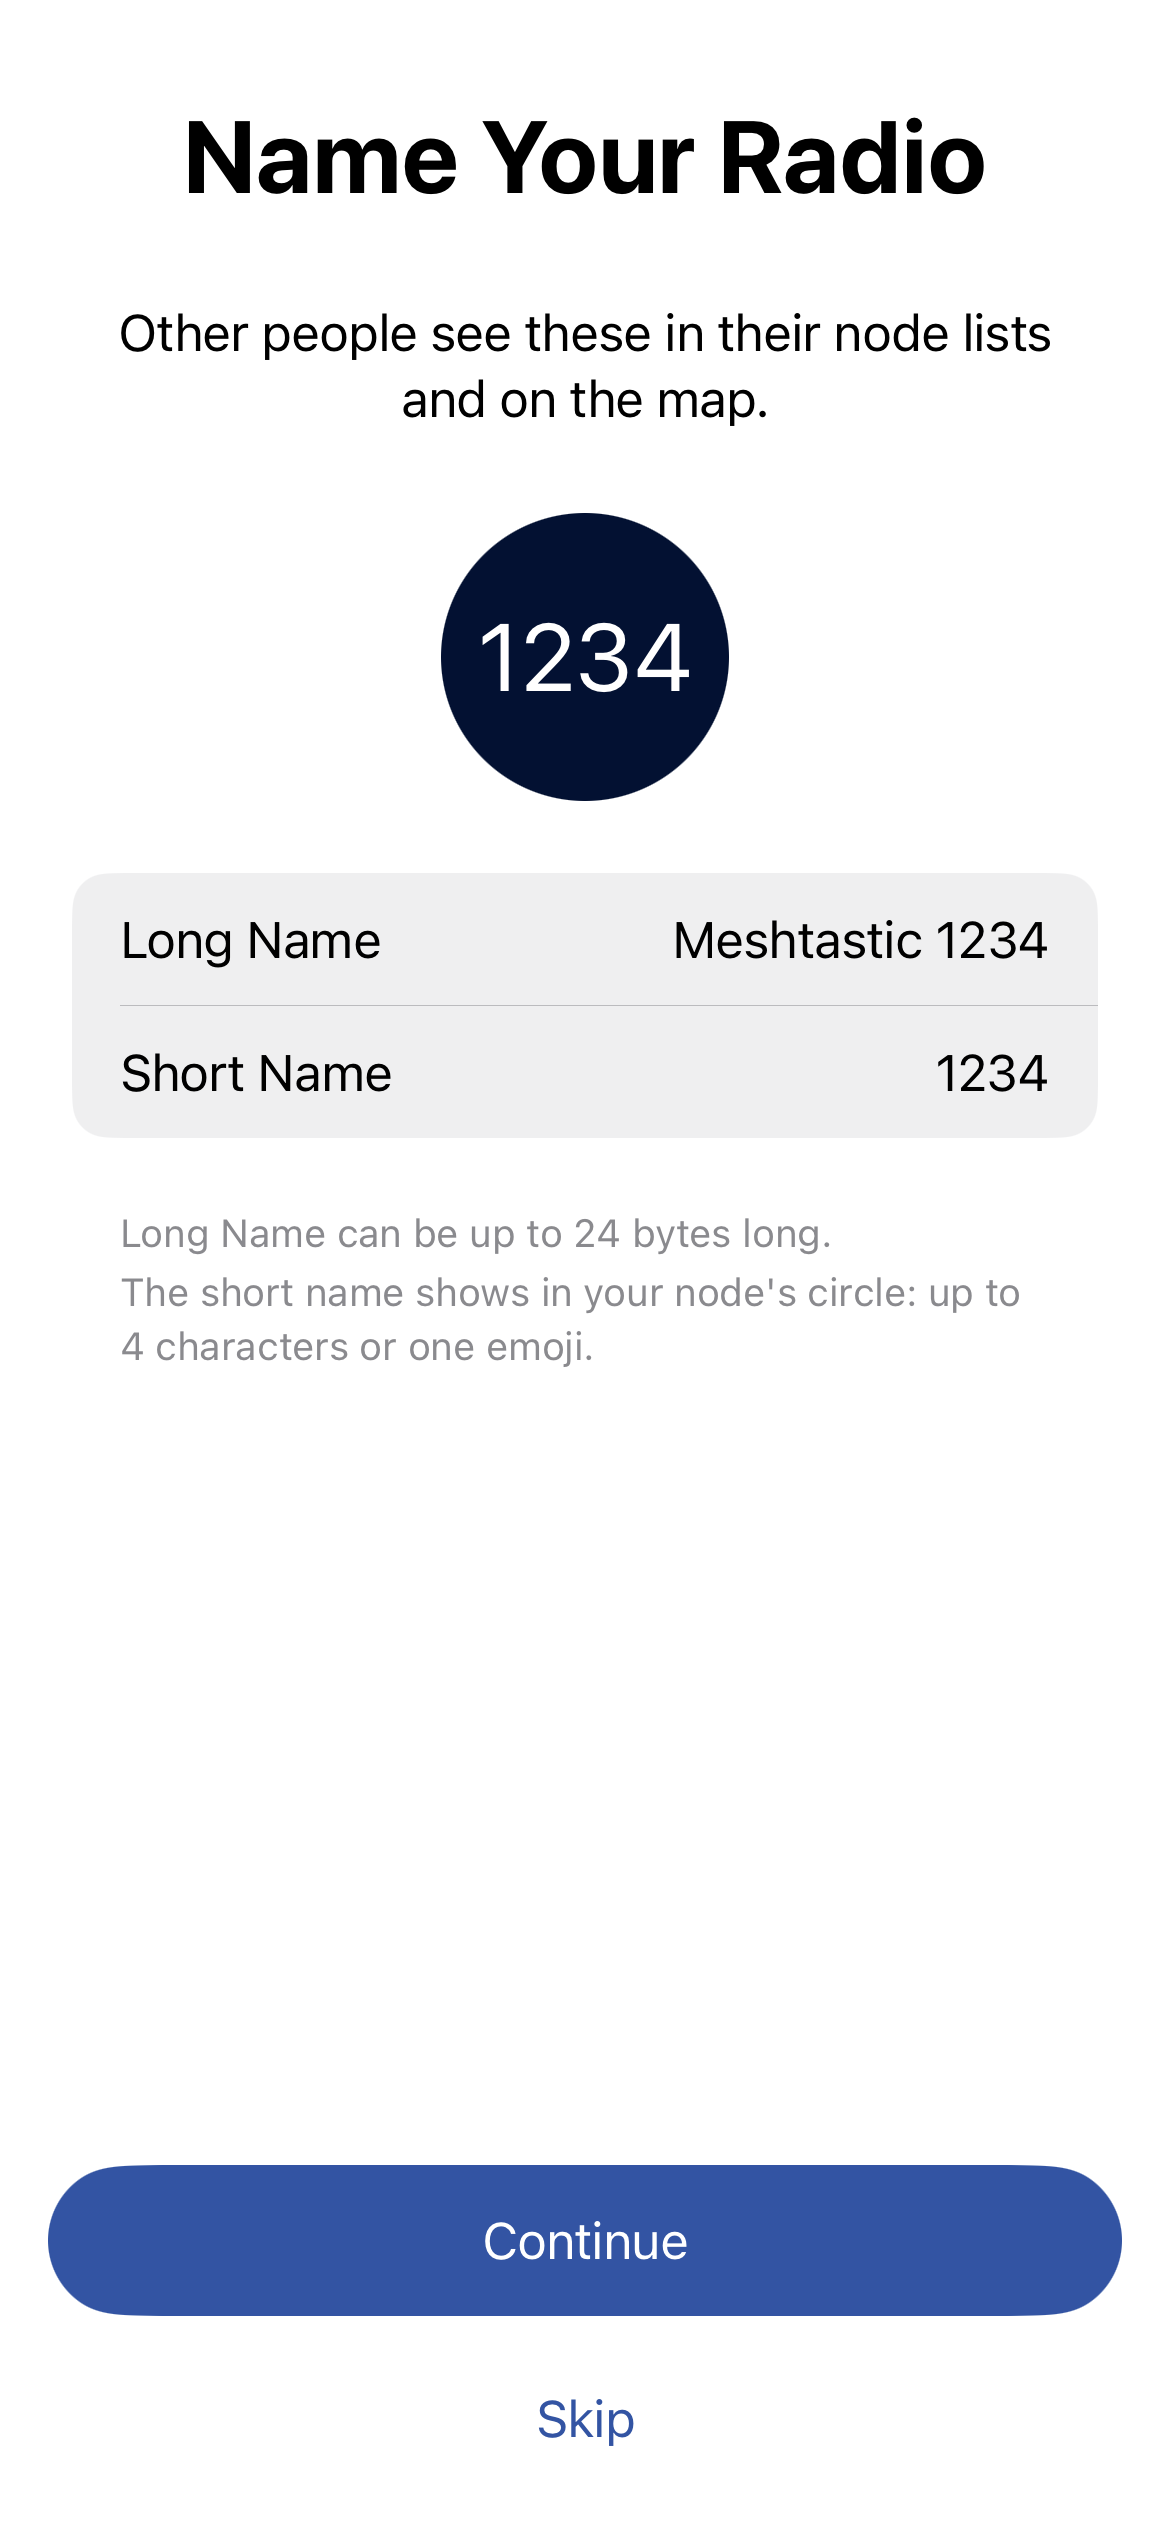
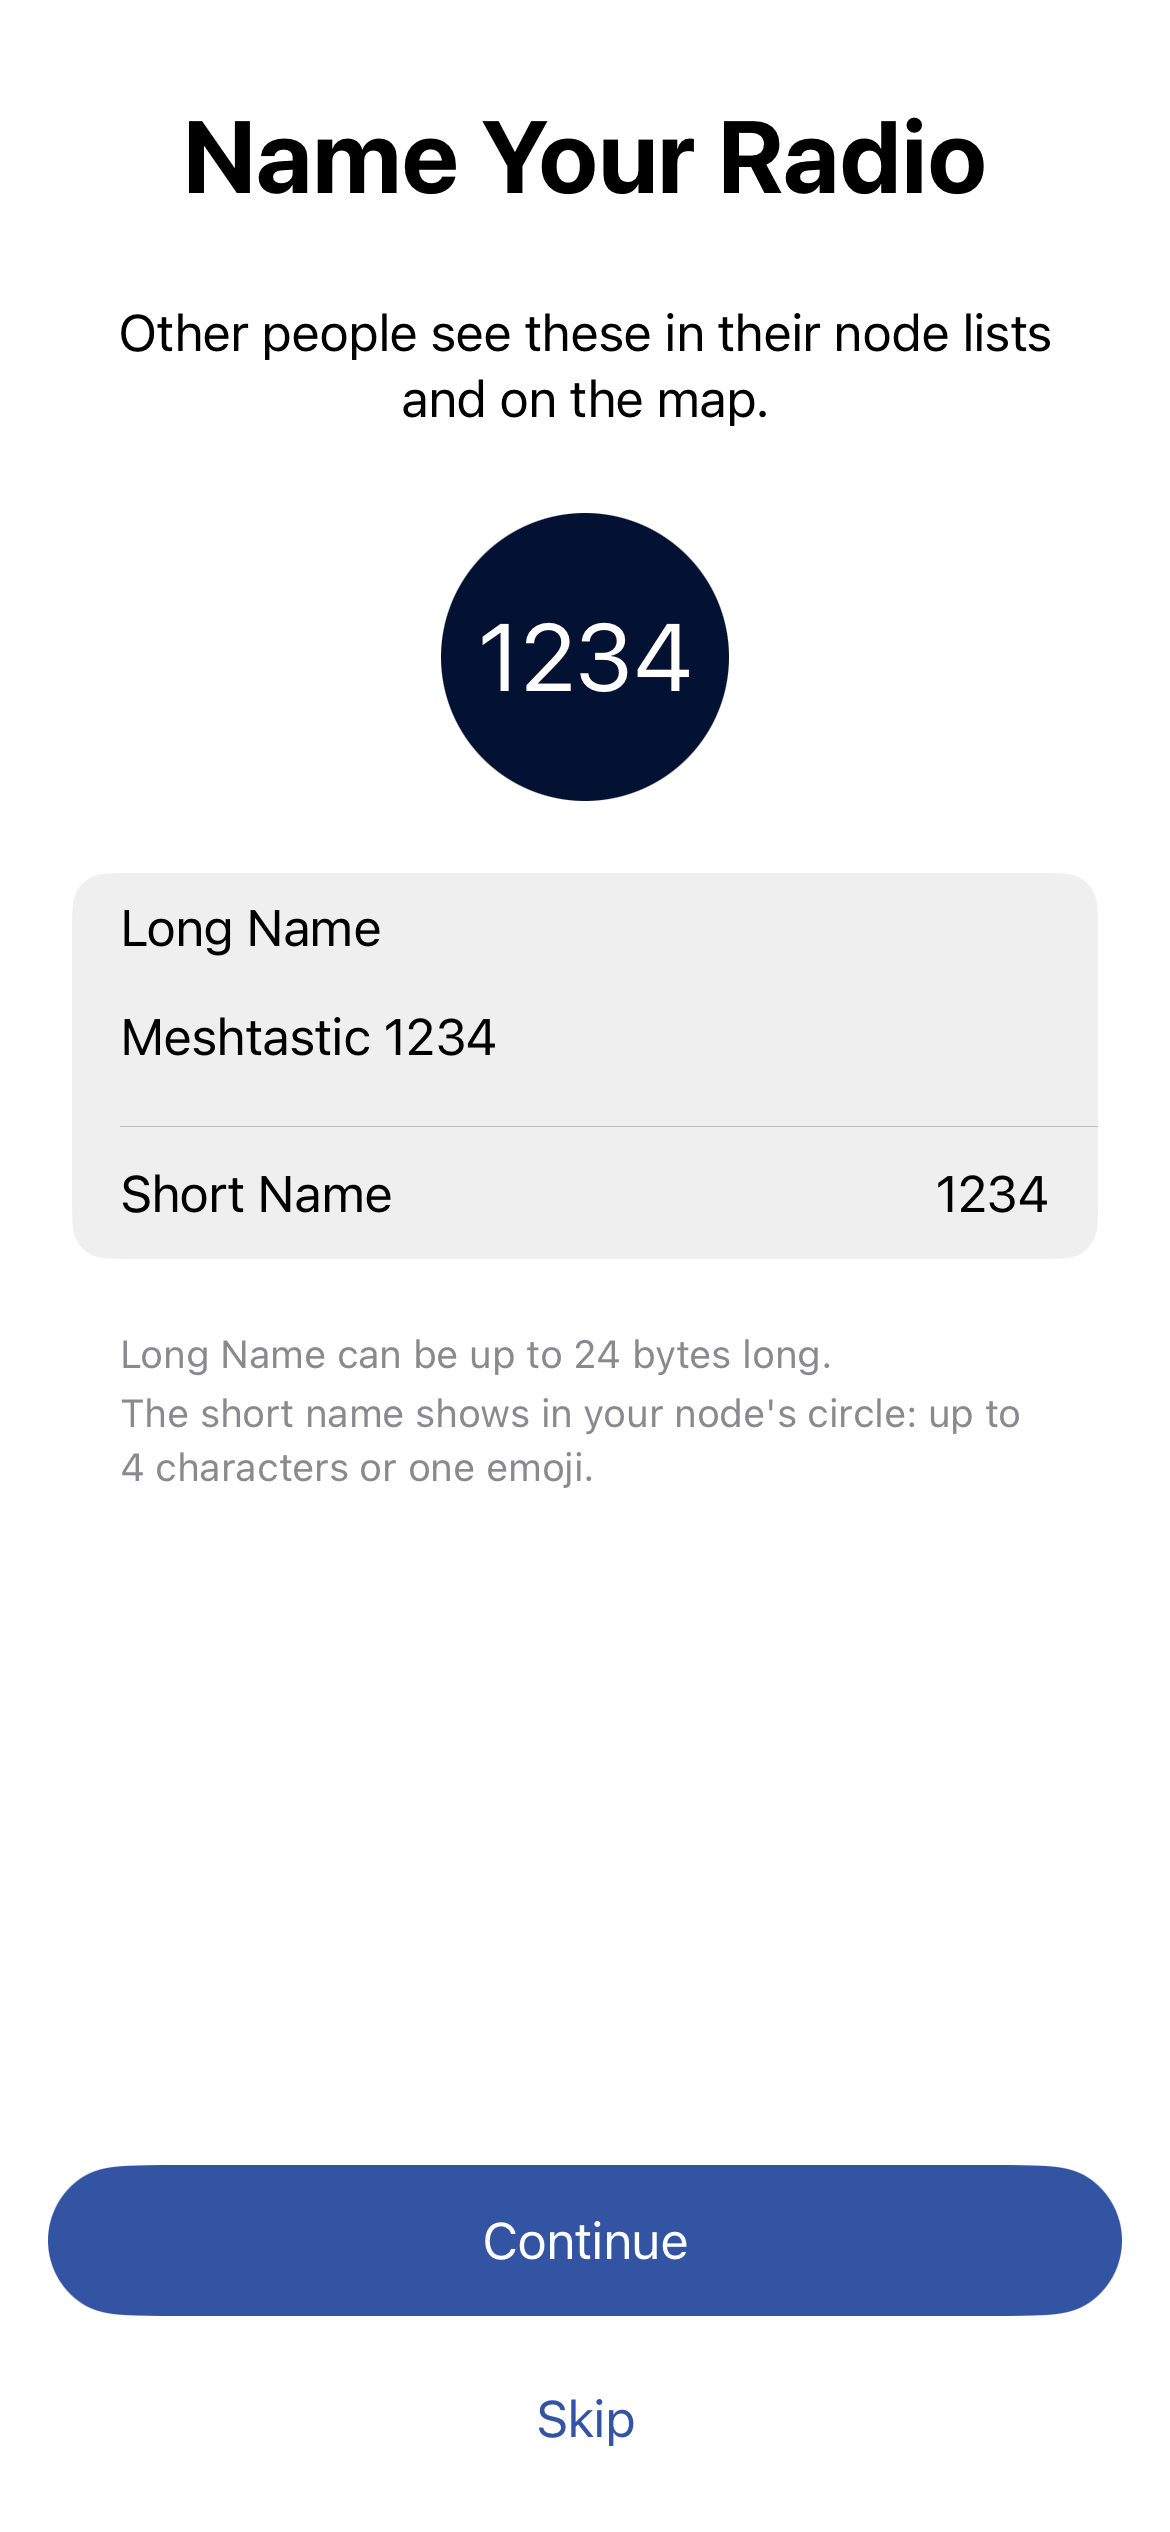
Put the long name's label above its field
Beside the label the field was too narrow for a long name.

diff --git a/Meshtastic/Views/Onboarding/RadioSetup/RadioSetupNamePage.swift b/Meshtastic/Views/Onboarding/RadioSetup/RadioSetupNamePage.swift
@@ -52,7 +52,8 @@ struct RadioSetupNamePage: View {
 				.frame(maxWidth: .infinity)
 				.accessibilityHidden(true)
 			VStack(spacing: 0) {
-				NameRow(title: String(localized: "Long Name"), text: longName)
+				// The long name needs the row's width, so its label sits above the field.
+				NameRow(title: String(localized: "Long Name"), text: longName, labelAbove: true)
 				Divider()
 					.padding(.leading, 16)
 				NameRow(title: String(localized: "Short Name"), text: shortName)
@@ -78,15 +79,16 @@ struct RadioSetupNamePage: View {
 	}
 }
 
-/// One row of the names form: the label, and the field at the trailing edge. At
-/// accessibility sizes the field goes under the label so neither is squeezed.
+/// One row of the names form: the label, and the field at the trailing edge, or under
+/// the label when it needs the width. At accessibility sizes every row stacks.
 private struct NameRow: View {
 	let title: String
 	@Binding var text: String
+	var labelAbove = false
 	@Environment(\.dynamicTypeSize) private var dynamicTypeSize
 
 	var body: some View {
-		let stacked = dynamicTypeSize.isAccessibilitySize
+		let stacked = labelAbove || dynamicTypeSize.isAccessibilitySize
 		let layout = stacked
 			? AnyLayout(VStackLayout(alignment: .leading, spacing: 4))
 			: AnyLayout(HStackLayout(spacing: 12))
